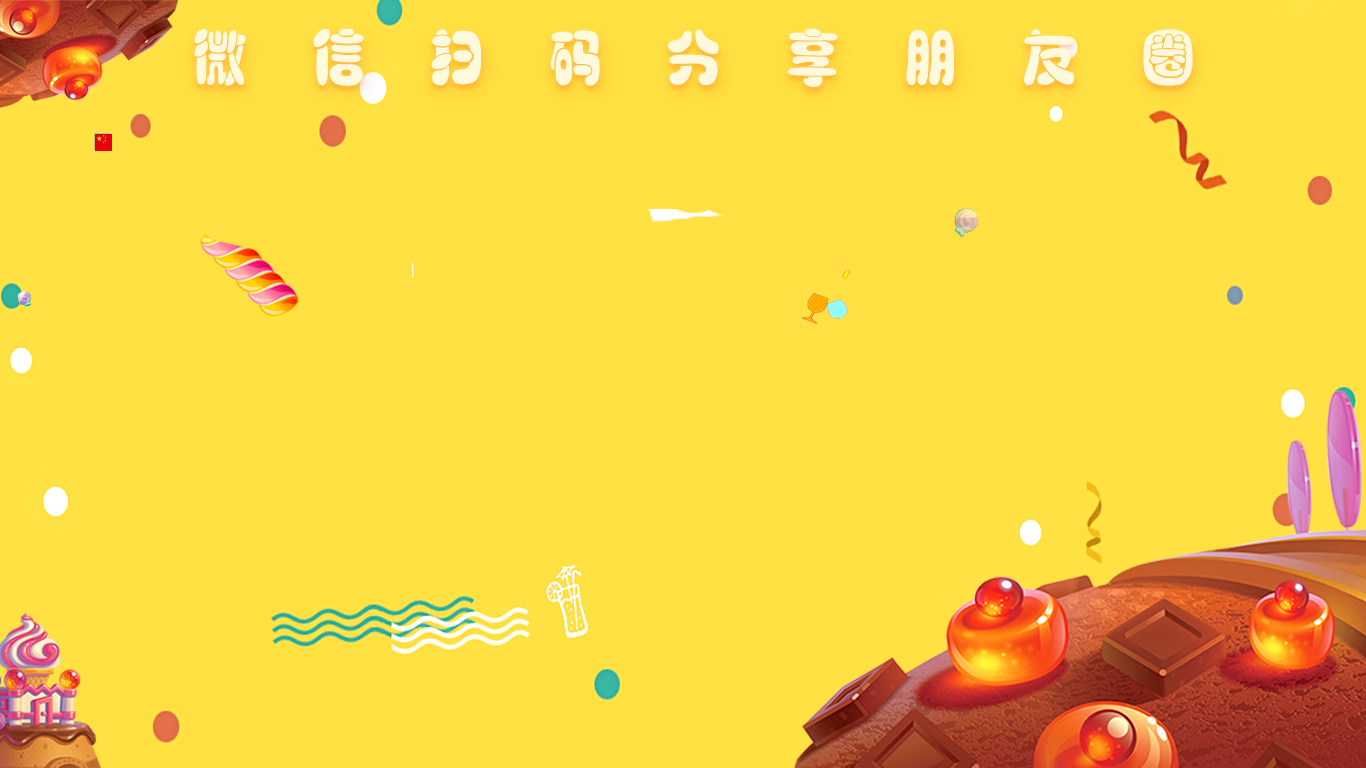
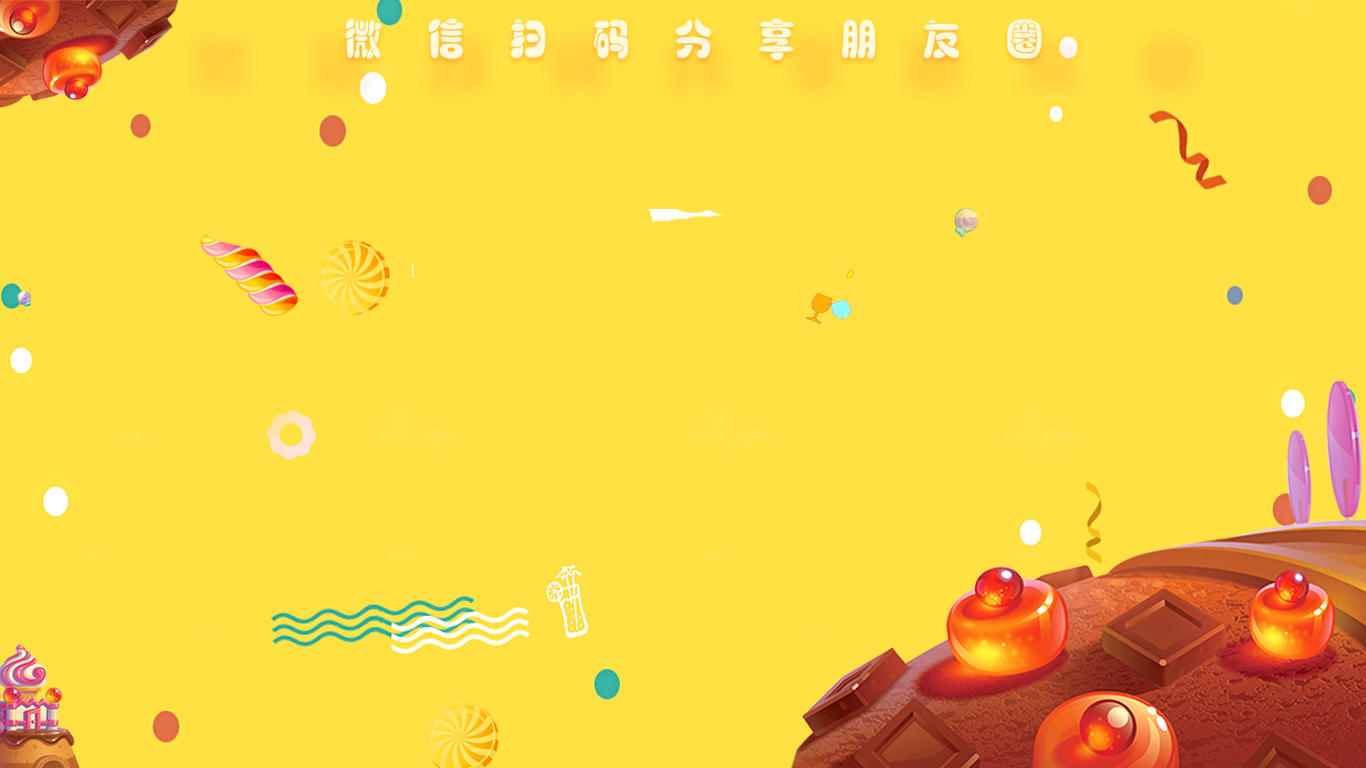
Issue0411 (#599)
* modify xxq body

* group modify

* link modify

* update code

diff --git a/_template/site/op/matter/wall/scenario/interact/templates/simple/basic.css b/_template/site/op/matter/wall/scenario/interact/templates/simple/basic.css
@@ -1,10 +1,11 @@
-body{width: 100%;height:auto;padding:115px 73px 0 73px; overflow-y:hidden; background:url('/static/img/xxq_interact/interactBg.jpg') no-repeat;}
+html,body{width: 100%;height: 100%;}
+body>.content{width: 1366px;height:768px;padding:85px 73px 0 73px;position: absolute;top:50%;left:50%;margin-top:-384px;margin-left:-683px;overflow-y:hidden;background:url('/static/img/xxq_interact/interactBg.jpg') no-repeat;}
 ul{width: 100%;padding-left: 0;margin-bottom:0;list-style: none;overflow: hidden;}
-.qrcodes{width: 100%;height:190px;margin-bottom: 20px;text-align: center;}
+.qrcodes{width: 100%;height:213px;margin-bottom: 30px;text-align:center;}
 .qrcodes>img{width: 320px;height: 100%;}
-.main{width: 1220px;height: 420px;text-align: center;position: relative;}
+.main{height: 420px;text-align: center;position: relative;}
 .main>.box{display:inline-block;height: 100%;padding:20px 0px 20px 20px;border-radius:5%;position: relative;background-color: rgba(255,255,255,0.3);}
-.main>.box>ul>li{float: left;}
+.main>.box>ul>li{display:inline-block;}
 .main>.box>ul>li>img{width: 100%;height: 100%;}
 .main>.box>.case{width: 130px;height: 135px;position: absolute;}
 .main>.box>.case>.case_main{width: 100%;height: 80px;position: absolute;bottom:0;left:0;background: url("/static/img/xxq_interact/interactBox.png") no-repeat;}

diff --git a/views/default/pl/fe/matter/wall/detail.html b/views/default/pl/fe/matter/wall/detail.html
@@ -148,7 +148,7 @@
                     </ul>
                 </div>
                 <div class='form-group' ng-if="wall.scenario=='interact'">
-                    <label>分享素材的二维码（建议尺寸：320像素*190像素；数量上限：3个）</label>
+                    <label>分享素材的二维码（建议尺寸：360像素*213像素；数量上限：3个）</label>
                     <ul class="img-tiles clearfix">
                         <li wrap="img" ng-repeat="img in wall.matters_img" class="img-thumbnail" title="图片">
                             <img ng-src='{{img.qrcodesrc}}' style="width:100%;height:134px;left:0px;top: 50%margin-top: -68px;" />

diff --git a/views/default/pl/fe/matter/group/user.html b/views/default/pl/fe/matter/group/user.html
@@ -9,7 +9,7 @@
                 <div class="input-group">
                     <input class='form-control' value="{{app.sourceApp.title}}" disabled="">
                     <div class="input-group-btn">
-                        <button class='btn btn-default' ng-click='syncByApp()'>
+                        <button class='btn btn-default' title='同步用户' ng-click='syncByApp()'>
                             <span class='glyphicon glyphicon-refresh'></span>
                         </button>
                         <button class="btn btn-default dropdown-toggle" data-toggle="dropdown">

diff --git a/views/default/pl/fe/matter/group/component/sourceApp.html b/views/default/pl/fe/matter/group/component/sourceApp.html
@@ -23,6 +23,7 @@
                     <label>
                         <input disabled type='checkbox' ng-model="data.sameMission" ng-true-value="'Y'" ng-false-value="'N'">仅在【{{app.mission.title}}】中选择</label>
                 </div>
+                <span class="text-danger">注：请前往数据页，选择同步(全部用户)<span ng-if="data.appType=='mschema'">或选取(部分用户)</span>功能。</span>
             </div>
         </div>
     </form>

diff --git a/views/default/pl/fe/matter/link/frame.js b/views/default/pl/fe/matter/link/frame.js
@@ -78,7 +78,7 @@ define(['require'], function() {
         });
         http2.get('/rest/pl/fe/matter/link/get?site=' + $scope.siteId + '&id=' + $scope.id, function(rsp) {
             $scope.editing = rsp.data;
-            $scope.entryUrl = location.protocol + '//' + location.host + '/rest/site/fe/matter/link?site=' + $scope.siteId + '&id=' + $scope.id;
+            $scope.entryUrl = rsp.data.entryUrl;
         });
     }]);
     /***/

diff --git a/views/default/site/op/matter/wall/page.tpl.htm b/views/default/site/op/matter/wall/page.tpl.htm
@@ -14,7 +14,7 @@
 </head>
 
 <body ng-cloak class='ng-cloak'>
-    <div dynamic-html="Page.html">
+    <div dynamic-html="Page.html" class="content">
     </div>
     <div ng-if="Wall.scenario =='interact'" class='timestamp'>
         <tms-datepicker class='tms-datepicker' tms-obj="rnd" tms-date="Wall.timestamp" tms-state="startAt"></tms-datepicker>
